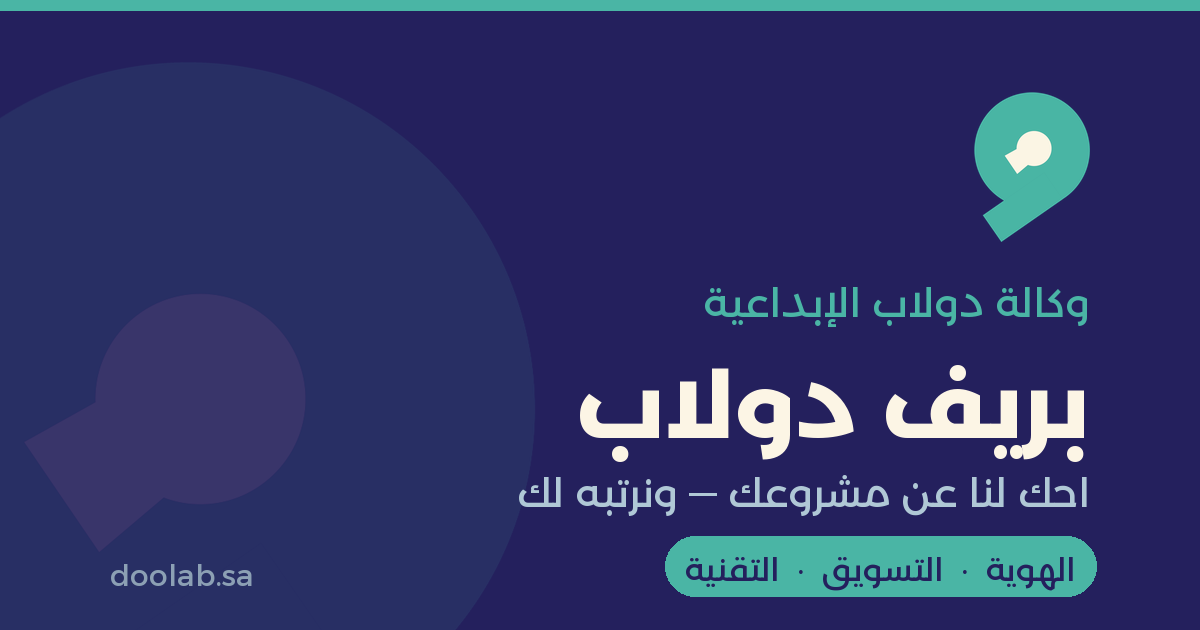
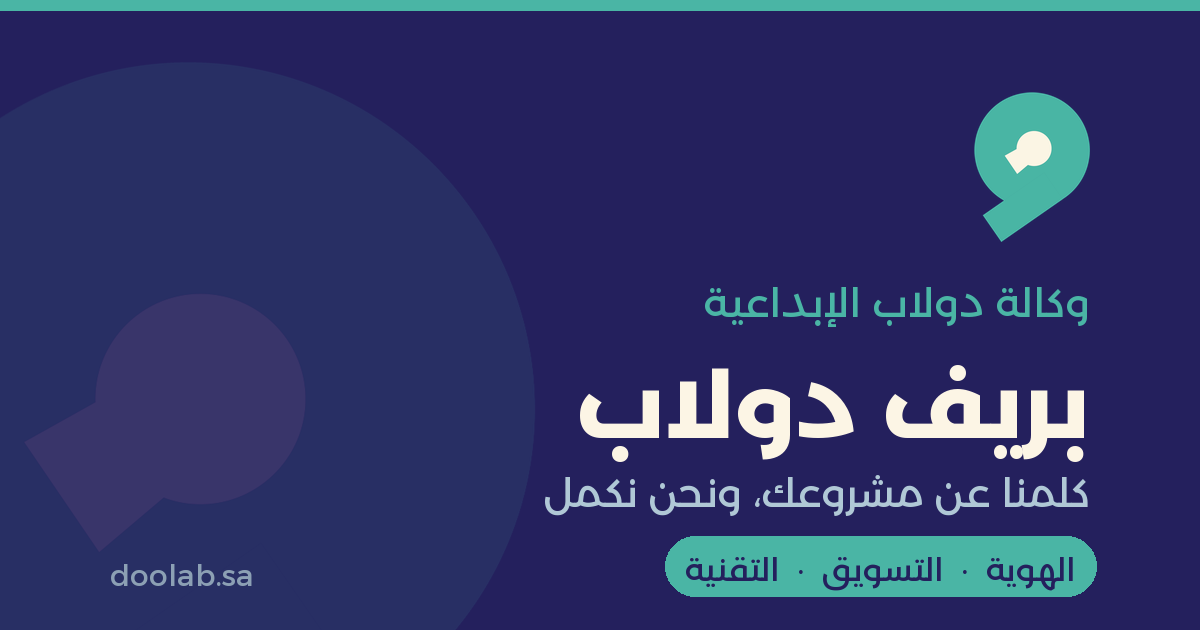
تحديث الجملة التعريفية بلهجة سعودية: «كلّمنا عن مشروعك، ونحن نكمّل»

Changed region(s): [[0.4317, 0.754, 0.925, 0.8143]]

diff --git a/index.html b/index.html
@@ -3,7 +3,7 @@
 <head>
   <meta charset="UTF-8" />
   <meta name="viewport" content="width=device-width, initial-scale=1.0, viewport-fit=cover" />
-  <title>بريف دولاب · احكِ لنا عن مشروعك</title>
+  <title>بريف دولاب · كلّمنا عن مشروعك</title>
   <meta name="description" content="بريف عملاء وكالة دولاب الإبداعية — الهوية والتصميم، التسويق، التقنية. يأخذ ٥-٨ دقائق." />
   <meta name="author" content="دولاب · Doolab" />
   <meta name="theme-color" content="#24205d" />
@@ -14,8 +14,8 @@
   <meta property="og:type" content="website" />
   <meta property="og:site_name" content="دولاب · Doolab" />
   <meta property="og:locale" content="ar_SA" />
-  <meta property="og:title" content="بريف دولاب · احكِ لنا عن مشروعك" />
-  <meta property="og:description" content="من وكالة دولاب الإبداعية — جاوب بصدق وعلى راحتك، وخلّ الباقي علينا. يأخذ ٥-٨ دقائق." />
+  <meta property="og:title" content="بريف دولاب · كلّمنا عن مشروعك" />
+  <meta property="og:description" content="من وكالة دولاب الإبداعية — كلّمنا عن مشروعك ونحن نكمّل. جاوب على راحتك، ياخذ ٥-٨ دقائق." />
   <meta property="og:url" content="https://doolab-sa.github.io/brief/" />
   <meta property="og:image" content="https://doolab-sa.github.io/brief/assets/og-cover.png" />
   <meta property="og:image:width" content="1200" />
